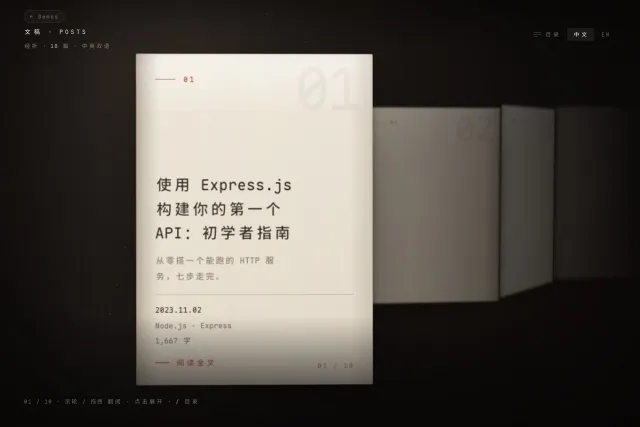
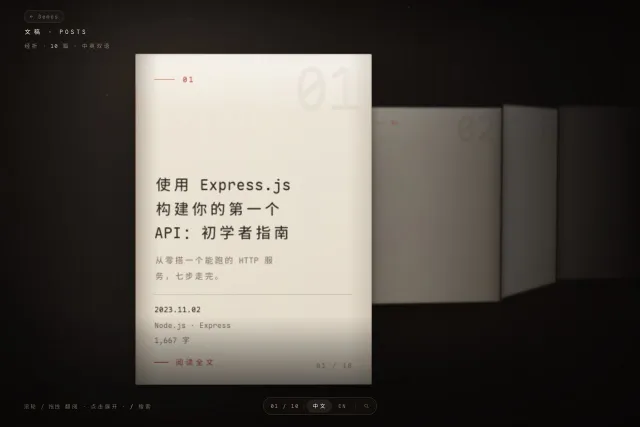
feat(posts-fold): HUD 收到底边中点 + 搜索图标 + 阅读层撑满视窗
1. 菜单图标换成放大镜（面板本来就是搜索 + 列表，汉堡包是错的隐喻）。
2. 页码 / 语言 / 搜索全压到底部中间一条胶囊里。3D 房子顶部已经有站级菜单，
   房间再占右上角，视线得在画面上下两个角之间来回跳。
   · 房间版语言跟随房子：带 ?loc=zh|en 进来就锁死，语言组与两条分隔线一起摘掉。
   · 左下只留操作提示，窄屏藏掉（会和居中的胶囊撞）。
3. 阅读层改成「纸 = 视窗高 − 48px」：position:fixed + padding:24px，
   页眉（序号/日期/关闭）不参与滚动，正文自己滚。
   · 文末加 ← 上一篇 / 下一篇 →，用 margin-top:auto 钉在纸底，
     短稿时纸不会空一大片，长稿时正常跟在正文后。

两个 CSS 坑（都写进注释了）：
· left:50% + translateX(-50%) 的绝对定位元素，收缩宽度上限是「容器宽 − left」，
  窄屏上只剩半屏 ⇒ 中文 被压成竖排。改 left:0;right:0;margin:0 auto;width:max-content。
· grid + place-items:center 的 auto 行只在「有富余」时撑高，内容一超就按内容长
  ⇒ 长文把纸撑到 2475px、页眉滚出视窗。改 flex + align-items:stretch，
  滚动子项加 min-height:0（否则 overflow:auto 永远不触发）。

窄屏顺手修了 ← Demos 胶囊压住标题（两边都落在 top 20~26）。

验收（dev 5199 + dist 4199）：
  底栏 cx=720（视口 1440）bottom=24 与左下提示不重叠；窄屏 cx=195 w=228 单行
  阅读层 top/bottom=24 h=852（视口 900），长文滚 400 页眉仍 top=24
  ?loc=en → lang=en / 语言组隐藏 / 10 篇→8 篇 / 双语句尾摘掉
  滚轮 惯性+1、慢划+1、咔哒×3、反向−1、拖 160px+1；点焦点折开层、点第三折翻到 03

diff --git a/public/demos/web3d/posts-fold/index.html b/public/demos/web3d/posts-fold/index.html
@@ -206,22 +206,46 @@ body{
 }
 .hud__tl p b{font-weight:400;color:#b9ac9b}
 
-.hud__tr{
-  position:absolute;right:48px;top:56px;display:flex;gap:2px;pointer-events:auto;
+/* ---------- 底部控制条 ---------- */
+/* 页码 / 语言 / 搜索全压到底边中点。3D 房子顶部已经有站级菜单，
+   这间再往右上角堆一排，视线就得在画面上下两个角之间来回跳。 */
+.hud__bc{
+  /* 不能写 left:50% + translateX(-50%)：绝对定位元素的收缩宽度上限是
+     "容器宽 − left"，窄屏上只剩半屏，按钮会被压成竖排（中文 竖着写）。
+     left:0;right:0;margin:0 auto;width:max-content 才是真居中。 */
+  position:absolute;left:0;right:0;margin:0 auto;width:max-content;max-width:calc(100% - 32px);
+  bottom:calc(24px + env(safe-area-inset-bottom));
+  display:flex;align-items:center;gap:2px;pointer-events:auto;
+  padding:4px;border-radius:999px;
+  background:rgba(20,16,13,.62);
+  border:1px solid rgba(200,186,168,.19);
+  box-shadow:0 16px 40px -22px rgba(0,0,0,.95);
+  backdrop-filter:blur(12px);-webkit-backdrop-filter:blur(12px);
 }
-.hud__tr button{
+.hud__bc button{
   appearance:none;border:0;background:transparent;cursor:pointer;
-  font-family:inherit;font-size:11px;letter-spacing:.18em;
-  color:#6d6257;padding:6px 12px;border-radius:2px;transition:color .25s,background .25s;
+  font-family:inherit;font-size:10.5px;letter-spacing:.18em;
+  color:#7d7266;padding:6px 11px;border-radius:999px;white-space:nowrap;
+  transition:color .22s ease,background .22s ease;
 }
-.hud__tr button[aria-pressed="true"]{color:#efe7db;background:rgba(255,255,255,.07)}
-.hud__tr button:hover{color:#cfc3b3}
-.hud__loc{display:flex;gap:2px}
+.hud__bc button:hover{color:#cfc3b3}
+.hud__bc button[aria-pressed="true"]{color:#efe7db;background:rgba(255,255,255,.07)}
+.hud__pos{
+  padding:0 2px 0 10px;font-size:10.5px;letter-spacing:.18em;color:#9a8d7e;
+  font-variant-numeric:tabular-nums;white-space:nowrap;
+}
+.hud__sep{width:1px;height:11px;background:rgba(200,186,168,.16);margin:0 4px}
+.hud__loc{display:flex;gap:1px}
+/* 房间版带 ?loc= 进来：语言跟随房子，这一组连分隔线一起摘掉。
+   不能只靠 [hidden] —— .hud__loc 自己声明了 display:flex，会压过 UA 的 [hidden]。 */
+.hud__bc.is-locked .hud__loc,
+.hud__bc.is-locked .hud__sep{display:none}
 
-.menu-btn{display:inline-flex;align-items:center;gap:8px;padding:6px 12px}
-.menu-btn svg{display:block;opacity:.8}
-.menu-btn span{font-size:11px;letter-spacing:.18em}
-.menu-btn[aria-expanded="true"]{color:var(--vermilion)}
+/* 搜索图标：放大镜，32×26 的点击区 */
+.menu-btn{display:inline-flex;align-items:center;justify-content:center;width:32px;height:26px;padding:0}
+.menu-btn svg{display:block;opacity:.85}
+.menu-btn:hover svg{opacity:1}
+.menu-btn[aria-expanded="true"]{color:var(--vermilion);background:rgba(178,58,44,.1)}
 .menu-btn[aria-expanded="true"] svg{opacity:1}
 
 /* ---------- 目录 ---------- */
@@ -280,30 +304,74 @@ body{
 .row.is-current .row__t{color:#fff}
 .menu__empty{padding:38px 48px;font-size:12px;letter-spacing:.06em;color:#6d6257}
 
+/* 左下只剩操作提示（页码已经移进底部控制条） */
 .hud__bl{
-  position:absolute;left:48px;bottom:40px;
-  font-size:11px;letter-spacing:.14em;color:#6d6257;line-height:2;
+  position:absolute;left:48px;bottom:30px;
+  font-size:10.5px;letter-spacing:.14em;color:#6d6257;line-height:2;
 }
 .hud__bl b{font-weight:400;color:#a99d8d}
 
 /* ---------- reader ---------- */
 .reader{
-  position:fixed;inset:0;z-index:40;display:grid;place-items:center;
+  position:fixed;inset:0;z-index:40;
+  /* 上下各留 24px：纸直接撑满视窗高度，读长文不用在一个小框里滚。
+     不用 100vh —— fixed + inset:0 本来就是布局视窗，移动端地址栏伸缩时更稳。 */
+  /* 用 flex 而不是 grid：grid 的 auto 行只会"有富余时撑高"，内容超了照样
+     按内容长（纸被撑到两千多像素、页眉滚出视窗）。flex 的交叉轴 stretch
+     是硬的：子项高度 = 容器高 - 上下 padding。 */
+  padding:24px;display:flex;align-items:stretch;justify-content:center;
   background:rgba(8,6,5,.72);backdrop-filter:blur(6px);
   opacity:0;pointer-events:none;transition:opacity .45s ease;
 }
 .reader.is-open{opacity:1;pointer-events:auto}
 .sheet{
-  width:min(720px,86vw);max-height:82vh;overflow:auto;
+  --pad:58px;
+  width:min(720px,100%);
+  display:flex;flex-direction:column;
   background:linear-gradient(180deg,#f4eee2,#eae2d3);
   color:var(--text);border-radius:3px;
   border-left:2px solid var(--vermilion);
-  padding:54px 58px 62px;
   box-shadow:0 40px 120px -30px rgba(0,0,0,.9);
   transform:translateY(18px) scale(.985);
   transition:transform .5s cubic-bezier(.22,.61,.36,1);
 }
 .reader.is-open .sheet{transform:none}
+/* 页眉固定、正文滚动：滚到一半，「ESC 关闭」还在原地。
+   以前关闭按钮绝对定位在视窗右上角，纸一撑满就会压到标题上。 */
+.sheet__bar{
+  flex:0 0 auto;display:flex;align-items:center;justify-content:space-between;gap:16px;
+  padding:13px var(--pad);
+  border-bottom:1px solid rgba(90,74,56,.16);
+  background:linear-gradient(180deg, rgba(255,255,255,.4), rgba(255,255,255,0));
+}
+.sheet__pos{
+  font-size:10px;letter-spacing:.2em;color:#9a8b78;
+  font-variant-numeric:tabular-nums;
+}
+.sheet__body{
+  /* min-height:0 是必须的：flex 子项的自动最小尺寸默认是内容高度，
+     不写它 overflow:auto 永远不触发，正文会把纸撑破而不是自己滚 */
+  flex:1 1 auto;min-height:0;overflow:auto;overscroll-behavior:contain;
+  display:flex;flex-direction:column;
+  padding:34px var(--pad) 34px;
+  scrollbar-width:thin;scrollbar-color:rgba(90,74,56,.28) transparent;
+}
+/* 文末：短稿时用 margin-top:auto 钉在纸底，否则纸下面会空一大片；
+   长稿就正常跟在正文后面。 */
+.sheet__foot{
+  margin-top:auto;padding-top:30px;
+  display:flex;align-items:center;justify-content:space-between;gap:16px;
+  font-size:10.5px;letter-spacing:.16em;
+}
+.sheet__foot .fin{color:#b3a692}
+.sheet__foot .nav{
+  appearance:none;border:0;background:transparent;cursor:pointer;
+  font-family:inherit;font-size:10.5px;letter-spacing:.16em;
+  color:#8a7f72;padding:7px 10px;border-radius:999px;
+  transition:color .2s ease,background .2s ease;
+}
+.sheet__foot .nav:hover{color:#3a332c;background:rgba(90,74,56,.09)}
+.sheet__foot .nav[disabled]{color:#c2b8a8;cursor:default;background:none}
 .sheet h2{font-size:26px;line-height:1.6;font-weight:500;letter-spacing:.01em}
 .sheet .sub{margin-top:14px;font-size:11px;letter-spacing:.14em;color:var(--text-soft)}
 .sheet hr{border:0;border-top:1px solid rgba(90,74,56,.2);margin:26px 0}
@@ -313,10 +381,12 @@ body{
   border-left:2px solid var(--vermilion);font-size:11px;line-height:2;color:#7a4a3f;
 }
 .close{
-  position:absolute;right:40px;top:34px;appearance:none;border:0;background:transparent;
-  color:#8a7f72;font-family:inherit;font-size:11px;letter-spacing:.2em;cursor:pointer;padding:8px;
+  appearance:none;border:0;background:transparent;
+  color:#8a7f72;font-family:inherit;font-size:10px;letter-spacing:.2em;cursor:pointer;
+  padding:6px 10px;border-radius:999px;
+  transition:color .2s ease,background .2s ease;
 }
-.close:hover{color:#efe7db}
+.close:hover{color:#3a332c;background:rgba(90,74,56,.09)}
 
 @media (max-width:900px){
   :root{--w:300px;--h:420px}
@@ -339,12 +409,16 @@ body{
   .row__d{grid-column:2;grid-row:2;font-size:10px}
   .row__t{font-size:13.5px}
   .menu__empty{padding:30px 24px}
-  .hud__tl{left:24px;top:26px}
-  .hud__tr{right:24px;top:26px}
-  .hud__bl{left:24px;bottom:24px}
+  /* 胶囊占第一行，标题让到它下面 —— 原来两边都落在 top 20~26，直接叠字 */
+  .lab-back{left:24px;top:16px}
+  .hud__tl{left:24px;top:50px}
+  .hud__bc{bottom:calc(16px + env(safe-area-inset-bottom))}
+  /* 窄屏藏掉左下提示：它会和居中的控制条撞在一起 */
+  .hud__bl{display:none}
   .title{font-size:19px}
   .pad{padding:28px 24px 24px}
-  .sheet{padding:38px 28px 44px}
+  .sheet{--pad:26px}
+  .sheet__body{padding:26px var(--pad) 40px}
 }
 @media (prefers-reduced-motion:reduce){
   .fold,.reader,.sheet,.cta{transition-duration:.01s}
@@ -375,23 +449,30 @@ body{
   <a class="lab-back" href="/demos/">← Demos</a>
   <div class="hud__tl">
     <h1>文稿 · POSTS</h1>
-    <p>经折 · <b>18</b> 篇 · 中英双语</p>
+    <p>经折 · <b id="count">10</b> 篇<span id="dual"> · 中英双语</span></p>
   </div>
-  <div class="hud__tr">
-    <button class="menu-btn" id="menuBtn" aria-expanded="false" aria-controls="menu" title="目录（/）">
-      <svg viewBox="0 0 18 12" width="15" height="10" fill="none" stroke="currentColor" stroke-width="1.2" aria-hidden="true">
-        <path d="M0 1h18M0 6h18M0 11h11"/>
-      </svg>
-      <span>目录</span>
-    </button>
-    <!-- 语言按钮单独包一层：菜单按钮不能落在 #locale 里，
-         否则那边的 click 处理器会把它当成语言按钮（dataset.loc 是空的） -->
+
+  <div class="hud__bc" id="bc">
+    <span class="hud__pos" id="pos">01 / 10</span>
+    <span class="hud__sep"></span>
+    <!-- 语言按钮单独包一层：搜索按钮不能落在 #locale 里，
+         否则那边的 click 处理器会把它当成语言按钮（dataset.loc 是空的）。
+         房间版带 ?loc= 进来时，这一组和两条分隔线一起摘掉。 -->
     <div class="hud__loc" id="locale">
       <button data-loc="zh" aria-pressed="true">中文</button>
       <button data-loc="en" aria-pressed="false">EN</button>
     </div>
+    <span class="hud__sep"></span>
+    <button class="menu-btn" id="menuBtn" aria-expanded="false" aria-controls="menu"
+            aria-label="搜索目录" title="搜索目录（/）">
+      <svg viewBox="0 0 16 16" width="14" height="14" fill="none" stroke="currentColor"
+           stroke-width="1.35" stroke-linecap="round" aria-hidden="true">
+        <circle cx="6.9" cy="6.9" r="4.5"/>
+        <path d="M10.2 10.2 14 14"/>
+      </svg>
+    </button>
   </div>
-  <div class="hud__bl"><span id="pos">01 / 10</span> · 滚轮 / 拖拽 翻阅 · 点击展开 · <b>/</b> 目录</div>
+  <div class="hud__bl">滚轮 / 拖拽 翻阅 · 点击展开 · <b>/</b> 搜索</div>
 </div>
 
 <!-- 目录：从顶部滑下来的一整条，带搜索。翻一百篇也不靠一格一格滚。 -->
@@ -408,8 +489,13 @@ body{
 </div>
 
 <div class="reader" id="reader">
-  <button class="close" id="close">ESC 关闭</button>
-  <article class="sheet" id="sheet"></article>
+  <article class="sheet" id="sheet">
+    <div class="sheet__bar">
+      <span class="sheet__pos" id="spos"></span>
+      <button class="close" id="close">ESC 关闭</button>
+    </div>
+    <div class="sheet__body" id="sbody"></div>
+  </article>
 </div>
 
 <!-- 一格一页的输入层（滚轮 / 拖动 / 方向键），判据与 craft 房间同一套 -->
@@ -458,9 +544,18 @@ document.documentElement.style.setProperty('--w', W + 'px');
 document.documentElement.style.setProperty('--h', H + 'px');
 const stage = document.getElementById('stage');
 const reader = document.getElementById('reader');
-const sheet = document.getElementById('sheet');
+const sheetBody = document.getElementById('sbody');
+const spos = document.getElementById('spos');
 
-let loc = 'zh';
+/* 房间版：语言跟随房子，不再自带切换。
+   带 ?loc=zh|en 进来就锁死这一种，并把控制条里的语言组整个摘掉
+   （房子那边切语言会换参数重建这一页，不需要两个切换器打架）。 */
+const LOCK_LOC = (() => {
+  const v = (Q.get('loc') || '').toLowerCase();
+  return v === 'zh' || v === 'en' ? v : null;
+})();
+
+let loc = LOCK_LOC || 'zh';
 let k = 0;
 let folds = [];
 let open = false;
@@ -471,6 +566,7 @@ const pad2 = (n) => String(n + 1).padStart(2, '0');
 function build() {
   const list = DATA[loc];
   k = Math.min(k, list.length - 1);
+  document.getElementById('count').textContent = list.length;
   ribbon.innerHTML = '';
   folds = list.map((a, i) => {
     const el = document.createElement('div');
@@ -545,18 +641,33 @@ function go(n) {
   render();
 }
 
+/* 版式示意用的占位正文。真接入后这一段由构建期从 md 渲成 HTML 片段，
+   静态页与这层共用同一份。 */
+const BODY = [
+  '这一层是版式示意，不是真正文。折页上四个位置——标题、摘要、日期 / 标签 / 字数、朱砂色「阅读全文」——就是 frontmatter 里 <code>title / description / date / tags</code> 的去处。',
+  '折带的好处是它不挑长度：一折一篇，篇数涨到 100，带子只是更长，不用改设计。这也是它取代 4×N 卡片墙的理由——卡墙到 20 张就开始挤。',
+  '纸撑满视窗高度、上下各留 24px，是为了让长文不必在一个小框里滚。页眉（序号 / 日期 / 关闭）不参与滚动，滚到一半仍然在。',
+  '排版只认一条规则：一栏，最大宽度 720px，行高 2.05。中文正文在这个行高下最舒服——再紧会挤，再松就散了。',
+  '文末那块用 <code>margin-top:auto</code> 钉在纸底：短稿时它落在最下面，纸不会显得空；长稿时它老老实实跟在正文后面。'
+];
+
 function openReader() {
   const a = DATA[loc][k];
-  sheet.innerHTML =
+  spos.textContent = pad2(k) + ' / ' + pad2(DATA[loc].length - 1) + ' · ' + a.d;
+  /* 换一篇要回到开头，否则会继承上一篇的滚动位置 */
+  sheetBody.scrollTop = 0;
+  sheetBody.innerHTML =
     '<h2>' + a.t + '</h2>' +
-    '<div class="sub">' + pad2(k) + ' · ' + a.d + ' · ' + a.g + ' · ' + a.n + '</div>' +
+    '<div class="sub">' + a.g + ' · ' + a.n + '</div>' +
     '<hr>' +
-    '<p>这一层是版式示意，不是真正文。折页上四个位置——标题、摘要、日期/标签/字数、' +
-    '朱砂色「阅读全文」——就是 frontmatter 里 <code>title / description / date / tags</code> 的去处。</p>' +
-    '<p>折带的好处是它不挑长度：一折一篇，篇数涨到 100，带子只是更长，不用改设计。' +
-    '这也是它取代 4×N 卡片墙的理由——卡墙到 20 张就开始挤。</p>' +
+    BODY.map((t) => '<p>' + t + '</p>').join('') +
     '<div class="note">为什么用 CSS 3D 而不是 three：折页上是中文标题与正文，走 three 就得把字渲成纹理——' +
-    '缩放会糊、不能选中、读屏软件读不到。平面用 <code>translate3d</code> 和 three 的 plane 视觉上几乎无差别。</div>';
+    '缩放会糊、不能选中、读屏软件读不到。平面用 <code>translate3d</code> 和 three 的 plane 视觉上几乎无差别。</div>' +
+    '<div class="sheet__foot">' +
+      '<button class="nav" data-dir="-1"' + (k === 0 ? ' disabled' : '') + '>← 上一篇</button>' +
+      '<span class="fin">完</span>' +
+      '<button class="nav" data-dir="1"' + (k === DATA[loc].length - 1 ? ' disabled' : '') + '>下一篇 →</button>' +
+    '</div>';
   reader.classList.add('is-open');
   open = true;
 }
@@ -592,7 +703,23 @@ window.addEventListener('keydown', (e) => {
   }
 });
 
+if (LOCK_LOC) {
+  document.documentElement.lang = LOCK_LOC === 'zh' ? 'zh-CN' : 'en';
+  document.getElementById('bc').classList.add('is-locked');
+  document.getElementById('dual').remove();
+}
+document.getElementById('count').textContent = DATA[loc].length;
+
 document.getElementById('close').addEventListener('click', closeReader);
+/* 文末翻篇：留在阅读层里直接换稿，不用退出去再点折页 */
+sheetBody.addEventListener('click', (e) => {
+  const btn = e.target.closest('.nav');
+  if (!btn || btn.disabled) return;
+  const n = k + Number(btn.dataset.dir);
+  if (n < 0 || n >= DATA[loc].length) return;
+  go(n);
+  openReader();
+});
 reader.addEventListener('click', (e) => { if (e.target === reader) closeReader(); });
 
 document.getElementById('locale').addEventListener('click', (e) => {

diff --git a/public/demos/web3d/posts-fold/README.md b/public/demos/web3d/posts-fold/README.md
@@ -12,8 +12,19 @@
 | 拖拽 | 连续翻，每 140px 一格 |
 | 点任意折 | 翻到它 |
 | 点**当前这一折** | 打开阅读层（`Esc` / 点空白关） |
-| 点右上角 `目录` 或按 `/`、`⌘K` | 顶部滑下目录：搜索标题 / 标签 / 日期，`↑↓` 选、`Enter` 跳 |
-| 右上角 `中文` / `EN` | 切换语料 |
+| 点底部中间的 🔍 或按 `/`、`⌘K` | 顶部滑下目录：搜索标题 / 标签 / 日期，`↑↓` 选、`Enter` 跳 |
+| 底部中间的 `中文` / `EN` | 切换语料（房间版没有这一组，见下） |
+| 阅读层文末 `← 上一篇` / `下一篇 →` | 不退出阅读层直接翻篇 |
+
+## HUD 为什么全在底边
+
+3D 房子的顶部已经有站级菜单（房间切换、语言、关于），房间再往右上角堆一排控件，视线就得在画面上下两个角之间来回跳。所以这间的东西全压在**底部中间的一条胶囊**里：页码 · 语言 · 搜索。
+
+**房间版的语言跟随房子**：带 `?loc=zh` / `?loc=en` 进来就锁死那一种，并把语言组和两条分隔线一起摘掉（`#bc.is-locked`）。房子切语言时换参数重建这一页即可 —— 两个切换器并存只会互相打架。
+
+```js
+const LOCK_LOC = (Q.get('loc') || '').toLowerCase();   // 'zh' | 'en' | null
+```
 
 ## 输入层是共用的：`public/demos/_pager.js`
 
@@ -36,10 +47,18 @@
 
 背景只有暖黑底、一束极淡的顶光、64 颗上浮的尘埃——全程序化，没有位图（守全站红线）。
 
+## 阅读层
+
+纸**撑满视窗高度**，上下各留 24px（`position:fixed;inset:0` + `padding:24px`，不用 `100vh`——移动端地址栏伸缩时更稳）。页眉（序号 / 日期 / 关闭）不参与滚动，正文自己滚。
+
+🔴 这里必须是 `display:flex; align-items:stretch`，**不能**用 `display:grid; place-items:center`：grid 的 auto 行只在"有富余"时撑高，内容一超就按内容长 —— 长文会把纸撑到 2400px，页眉跟着滚出视窗。同理 `.sheet__body` 要写 `min-height:0`，否则 `overflow:auto` 永远不触发。
+
+文末那块用 `margin-top:auto` 钉在纸底：短稿时落在最下面（纸不会空一大片），长稿时正常跟在正文后。
+
 ## 待办
 
 - 接入真实数据：一折 = 一篇 = `content/articles/<locale>/<slug>.md`，frontmatter 的 `title / description / date / tags` 就是折页上那四个位置。
 - 阅读层改为 iframe 或构建期 HTML 片段（与静态页 `/articles/<slug>/` 共用一份渲染结果）。
-- 房间正式落地时接 `?from=posts` 的胶囊回路（`_from.js` 里加一行 `posts` 即可）。
+- 房间正式落地时接 `?from=posts` 的胶囊回路（`_from.js` 里加一行 `posts` 即可），并用 `?loc=` 把语言交给房子。
 
 数据在页面内联（`DATA`），改文案直接改 `index.html`；缩略图由 `.workbuddy-ai/harness/make-demo-thumbs.mjs` 生成到 `public/demos/thumbs/web3d/posts-fold.webp`。

diff --git a/WORKPLAN.md b/WORKPLAN.md
@@ -166,6 +166,13 @@
     别再写第二份。🔴 拖动**不能用** `setPointerCapture`（会吞掉子元素的 click）。
   - 目录面板（`/` 或 `⌘K` 唤出，搜索 + ↑↓ + Enter）也已在原型里跑通，
     房间版按同一交互接。
+  - **HUD 全在底边中点**（页码 · 语言 · 🔍 搜索）：3D 房子顶部已有站级菜单，
+    房间再占右上角会让人上下两个角来回看。🔴 房间版**语言跟随房子** —— 带
+    `?loc=zh|en` 进来就锁死并摘掉语言组（`#bc.is-locked`），不留两个切换器。
+  - **阅读层撑满视窗高度**（上下各 24px），页眉固定、正文自己滚，文末
+    `← 上一篇 / 下一篇 →` 用 `margin-top:auto` 钉在纸底。🔴 容器必须是
+    `flex + align-items:stretch`，`grid + place-items:center` 会让长文把纸撑到
+    2400px；滚动子项必须写 `min-height:0`。
 - **分期**（每期单独 commit）：
   - **P1 止血**：正文搬出主包（md 文件 + 房间按需 fetch）⇒ 主包 gzip 94.7 → ~50KB；
     顺手修 `seo-plugin` 的字段错配。
